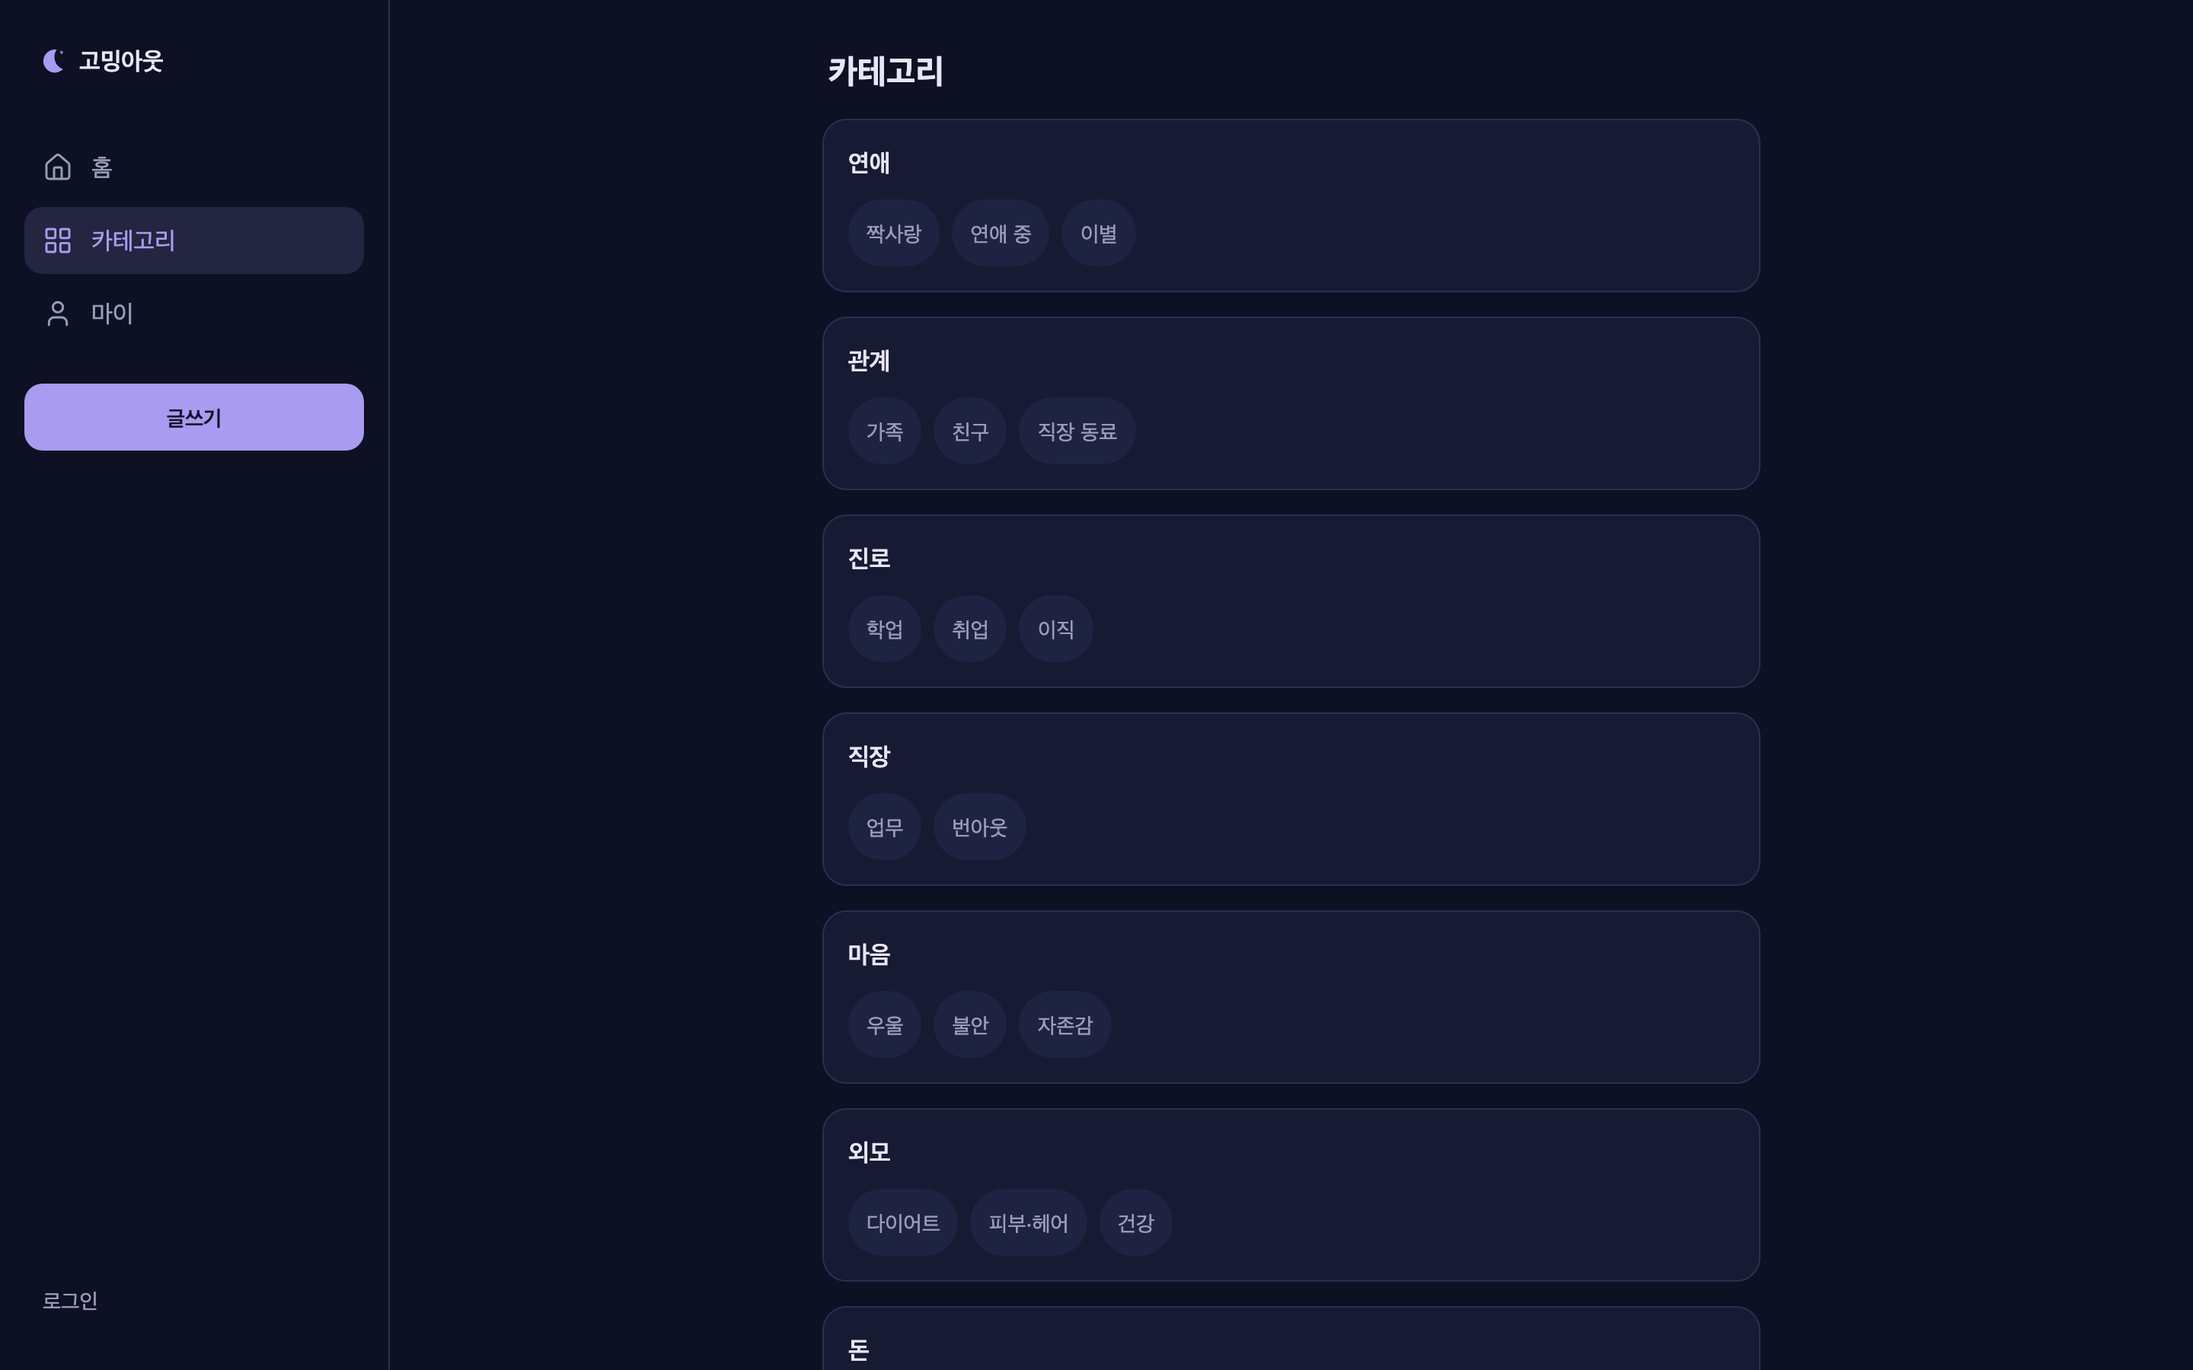
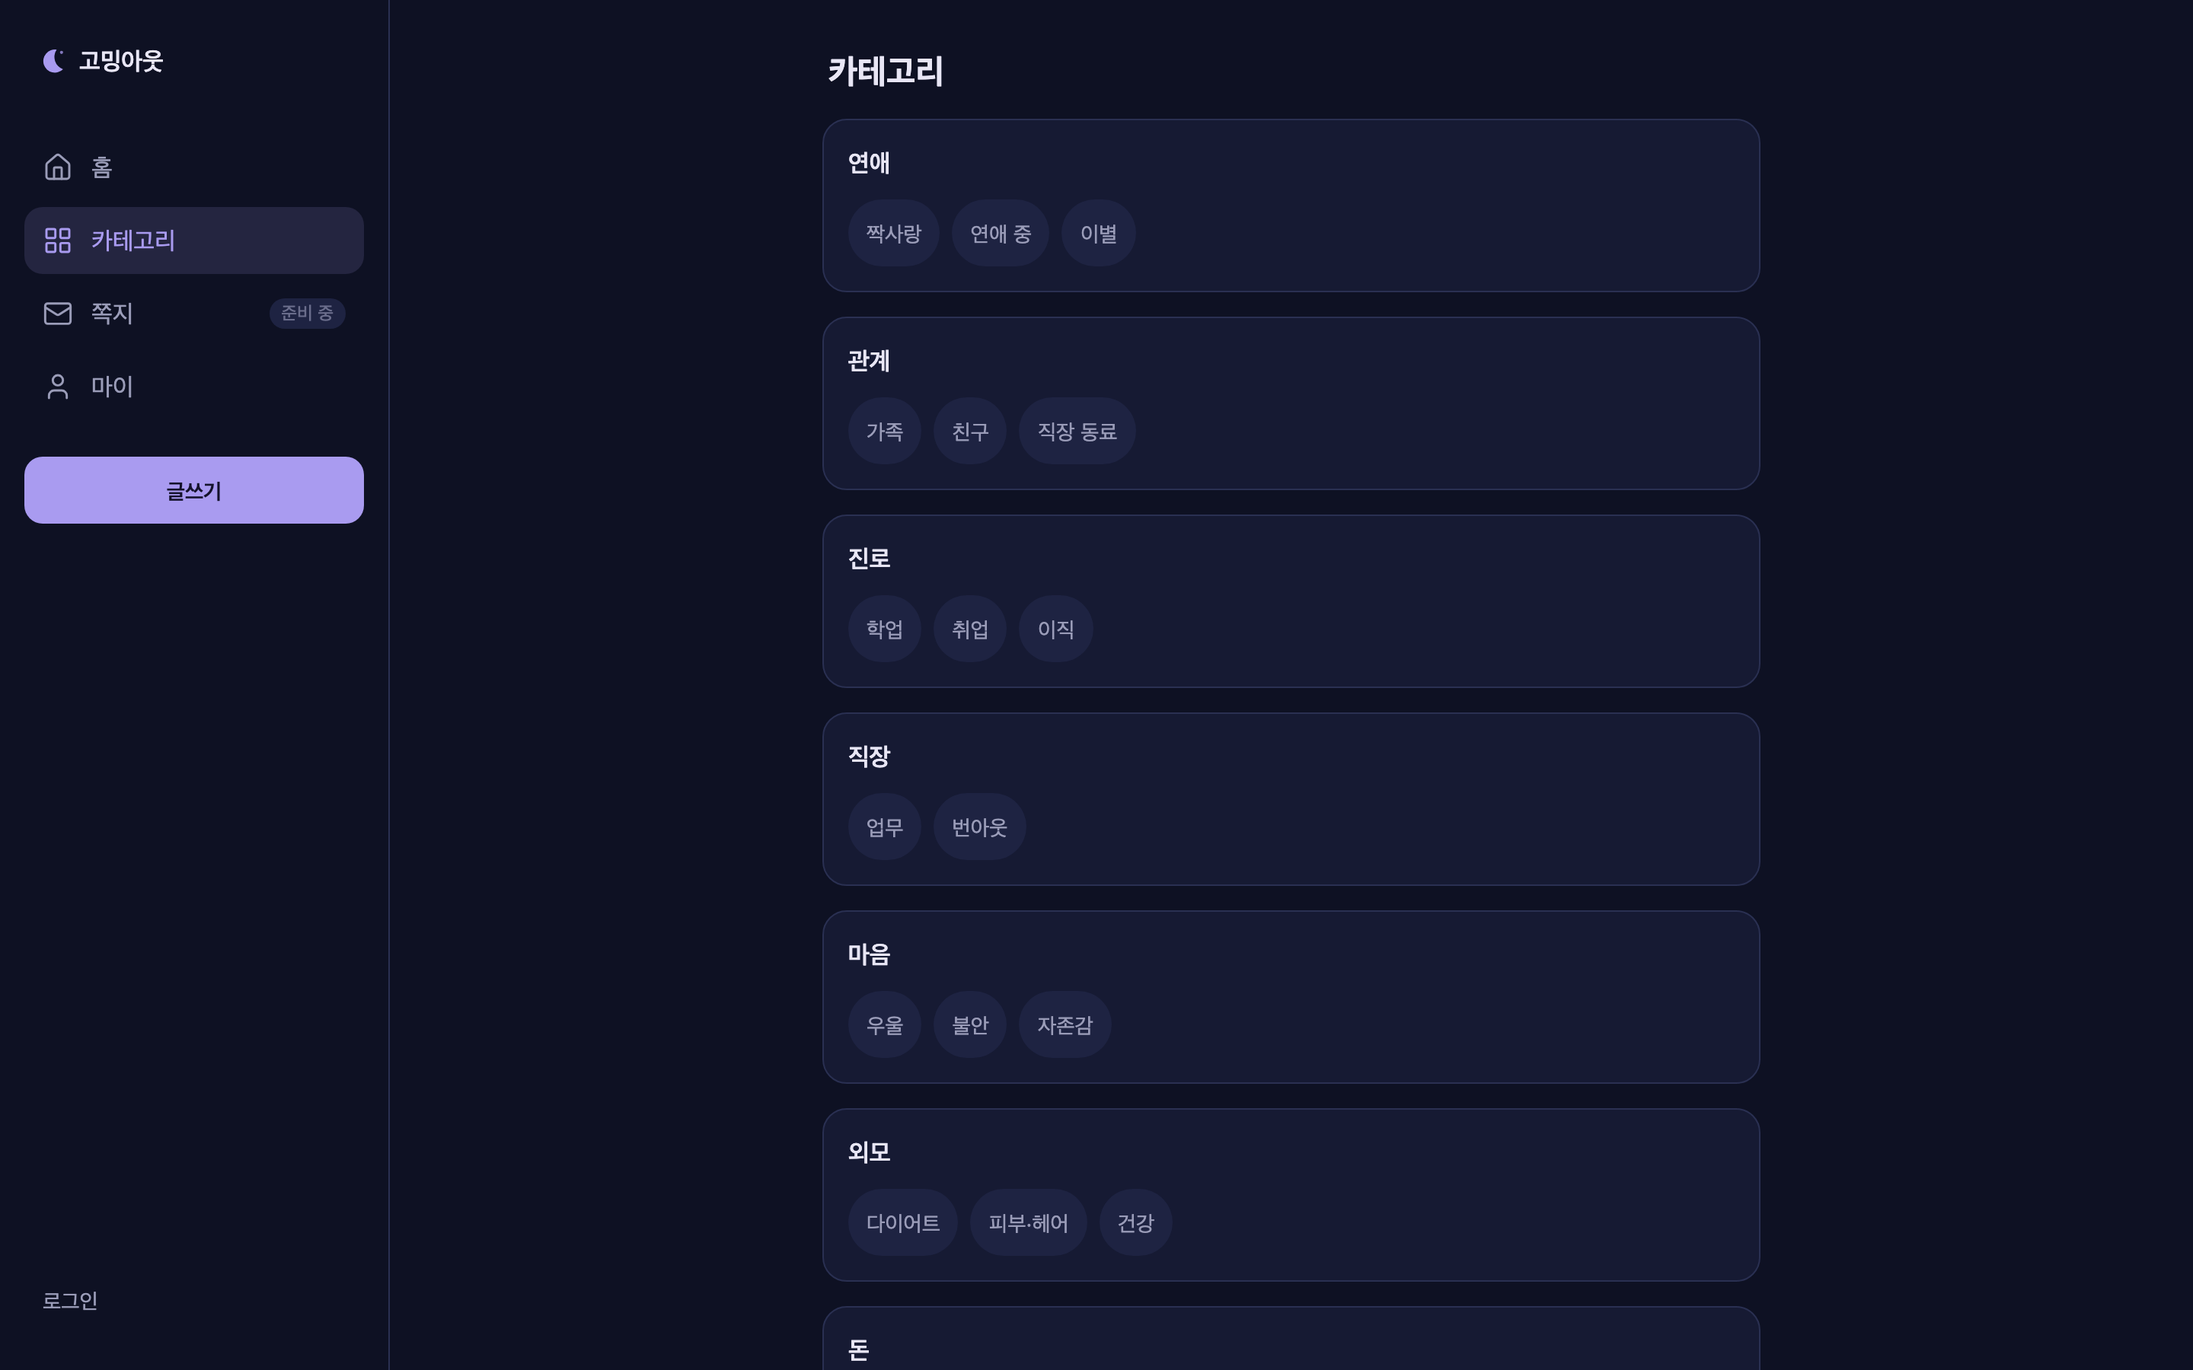
feat(web): 하단 탭에 쪽지(준비 중) 추가 — 5개로 균형
D24 — 탭 4개는 가운데 강조 버튼 기준으로 좌우가 어긋난다.
쪽지를 넣어 홈·카테고리 / 글쓰기 / 쪽지·마이 5개로 맞춘다.
기능 자체는 여전히 MVP 제외(D5)이며 자리만 미리 알린다.

- NAV_ITEMS에 comingSoon 플래그. 글쓰기가 가운데(index 2)
- 하단 탭: 아이콘 우상단에 --text-subtle 점 하나로만 표시.
  배지·숫자 같은 자극적인 표현은 쓰지 않는다(DESIGN.md 1장).
  스크린리더에는 "준비 중"을 읽어준다
- 사이드바: 여유가 있으므로 "준비 중" 칩을 글자로 표시
- /messages 안내 화면 — 누른 사람을 막다른 곳으로 보내지 않는다.
  익명 글에 쪽지를 받아도 신원이 드러나지 않게 만들 것임을 함께 안내(D5)
- 하단 탭 상단 여백 추가(pt-2.5). 아이콘이 경계선에 붙어 보였다

문서: DESIGN.md 6장(탭 4개→5개, 사이드바 메뉴), PRD 9장 화면 목록,
DECISIONS D24, M0 보고서

테스트 31개 통과. 하단 탭 구성 검증 4종 추가
(5개·강조 1개·href 중복 없음·준비 중 링크가 실제 화면을 가리킴).

Changed region(s): [[0.0, 0.28, 0.1875, 0.4044], [0.0, 0.2178, 0.0625, 0.2489], [0.125, 0.2178, 0.1562, 0.2489]]

diff --git a/apps/web/src/components/layout/app-shell.test.tsx b/apps/web/src/components/layout/app-shell.test.tsx
@@ -1,12 +1,13 @@
 import { render, screen } from '@testing-library/react';
 import { describe, expect, it, vi } from 'vitest';
 import { AppShell } from './app-shell';
+import { NAV_ITEMS } from './nav-items';
 
 // usePathname은 App Router 런타임에만 존재하므로 테스트에서 대체한다
 vi.mock('next/navigation', () => ({ usePathname: () => '/' }));
 
 describe('AppShell', () => {
-  it('하단 탭 4개와 사이드바 메뉴를 렌더한다', () => {
+  it('하단 탭과 사이드바 메뉴를 렌더한다', () => {
     render(
       <AppShell>
         <p>본문</p>
@@ -15,9 +16,35 @@ describe('AppShell', () => {
 
     expect(screen.getByText('본문')).toBeInTheDocument();
     // 하단 탭 + 사이드바에 각각 존재하므로 최소 1개 이상
-    for (const label of ['홈', '카테고리', '마이']) {
+    for (const label of ['홈', '카테고리', '쪽지', '마이']) {
       expect(screen.getAllByText(label).length).toBeGreaterThan(0);
     }
     expect(screen.getAllByLabelText('주요 메뉴').length).toBe(2);
+  });
+
+  it('준비 중인 메뉴에도 도착할 화면이 있다 — 막다른 링크를 두지 않는다', () => {
+    const comingSoon = NAV_ITEMS.filter((item) => item.comingSoon === true);
+
+    expect(comingSoon.length).toBeGreaterThan(0);
+    for (const item of comingSoon) {
+      expect(item.href).toMatch(/^\//);
+    }
+  });
+});
+
+describe('NAV_ITEMS', () => {
+  it('하단 탭은 5개이고 글쓰기가 가운데다 (DESIGN.md 6장)', () => {
+    expect(NAV_ITEMS).toHaveLength(5);
+    expect(NAV_ITEMS[2]?.emphasized).toBe(true);
+    expect(NAV_ITEMS[2]?.label).toBe('글쓰기');
+  });
+
+  it('강조 탭은 하나뿐이다 — 가운데 원형 버튼이 둘이면 레이아웃이 깨진다', () => {
+    expect(NAV_ITEMS.filter((item) => item.emphasized === true)).toHaveLength(1);
+  });
+
+  it('href가 중복되지 않는다', () => {
+    const hrefs = NAV_ITEMS.map((item) => item.href);
+    expect(new Set(hrefs).size).toBe(hrefs.length);
   });
 });

diff --git a/apps/web/src/app/messages/page.tsx b/apps/web/src/app/messages/page.tsx
@@ -1,0 +1,39 @@
+import { Mail } from 'lucide-react';
+import { Card } from '@/components/common/card';
+
+export const metadata = { title: '쪽지' };
+
+/**
+ * 쪽지 — 준비 중 (D5, D24).
+ *
+ * 쪽지는 MVP 범위 밖이다. 다만 하단 탭에 자리를 미리 두었으므로,
+ * 누른 사람이 막다른 곳에 도착하지 않도록 안내 화면을 둔다.
+ *
+ * 익명 커뮤니티에서 DM은 괴롭힘 위험이 있어 별도 설계가 필요하다(D5).
+ * 특히 익명 글 작성자에게 쪽지를 보낼 때 상대 신원이 드러나지 않아야 한다.
+ */
+export default function MessagesPage() {
+  return (
+    <div className="space-y-4">
+      <h1 className="px-1 text-title-lg text-text">쪽지</h1>
+
+      <Card className="px-4 py-12">
+        <div className="flex flex-col items-center text-center">
+          <span className="flex size-14 items-center justify-center rounded-pill bg-surface-2">
+            <Mail size={24} strokeWidth={1.75} aria-hidden className="text-text-subtle" />
+          </span>
+
+          <p className="mt-4 text-title-sm text-text">아직 준비하고 있어요</p>
+          <p className="mt-2 max-w-xs text-body-sm text-text-muted">
+            마음이 맞는 사람과 조용히 이야기 나눌 수 있는 쪽지를 준비하고 있어요. 조금만
+            기다려주세요.
+          </p>
+
+          <p className="mt-6 max-w-sm rounded-card bg-surface-2 px-4 py-3 text-caption text-text-subtle">
+            익명으로 쓴 글에 쪽지를 받더라도 누구인지 드러나지 않도록 만들고 있어요.
+          </p>
+        </div>
+      </Card>
+    </div>
+  );
+}

diff --git a/apps/web/src/components/layout/bottom-tabs.tsx b/apps/web/src/components/layout/bottom-tabs.tsx
@@ -17,7 +17,9 @@ export function BottomTabs() {
       aria-label="주요 메뉴"
       className="fixed inset-x-0 bottom-0 z-40 border-t bg-surface/95 safe-bottom backdrop-blur lg:hidden"
     >
-      <ul className="mx-auto flex max-w-reading items-stretch justify-around">
+      {/* 아이콘이 상단 경계선에 붙지 않도록 여백을 둔다. 가운데 글쓰기 버튼이 -mt-4로
+          올라오므로 그 공간도 함께 확보된다. */}
+      <ul className="mx-auto flex max-w-reading items-stretch justify-around px-2 pt-2.5 pb-1">
         {NAV_ITEMS.map((item) => {
           const active = pathname === item.href;
           const Icon = item.icon;
@@ -47,8 +49,18 @@ export function BottomTabs() {
                   active ? 'text-primary' : 'text-text-muted',
                 )}
               >
-                <Icon size={20} strokeWidth={1.75} aria-hidden />
+                <span className="relative">
+                  <Icon size={20} strokeWidth={1.75} aria-hidden />
+                  {/* 준비 중 표시는 아주 작은 점 하나로만. 자극적인 배지를 쓰지 않는다 (DESIGN.md 1장) */}
+                  {item.comingSoon === true && (
+                    <span
+                      aria-hidden
+                      className="absolute -top-0.5 -right-1 size-1.5 rounded-pill bg-text-subtle"
+                    />
+                  )}
+                </span>
                 {item.label}
+                {item.comingSoon === true && <span className="sr-only">준비 중</span>}
               </Link>
             </li>
           );

diff --git a/apps/web/src/components/layout/nav-items.ts b/apps/web/src/components/layout/nav-items.ts
@@ -1,4 +1,4 @@
-import { Home, LayoutGrid, PenLine, User, type LucideIcon } from 'lucide-react';
+import { Home, LayoutGrid, Mail, PenLine, User, type LucideIcon } from 'lucide-react';
 
 export type NavItem = {
   href: string;
@@ -6,12 +6,21 @@ export type NavItem = {
   icon: LucideIcon;
   /** 글쓰기는 하단 탭 가운데에서 강조된 원형 버튼으로 표시된다 (DESIGN.md 6장) */
   emphasized?: boolean;
+  /**
+   * 아직 만들지 않은 기능. 자리만 미리 보여준다 (D24).
+   * 누르면 "준비 중" 안내 화면으로 간다 — 막다른 곳으로 보내지 않는다.
+   */
+  comingSoon?: boolean;
 };
 
-/** 하단 탭 4개 / 사이드바 공용 (DESIGN.md 6장) */
+/**
+ * 하단 탭 5개 / 사이드바 공용 (DESIGN.md 6장).
+ * 글쓰기를 가운데(index 2)에 두어 좌우 2개씩 균형을 맞춘다.
+ */
 export const NAV_ITEMS: readonly NavItem[] = [
   { href: '/', label: '홈', icon: Home },
   { href: '/categories', label: '카테고리', icon: LayoutGrid },
   { href: '/write', label: '글쓰기', icon: PenLine, emphasized: true },
+  { href: '/messages', label: '쪽지', icon: Mail, comingSoon: true },
   { href: '/me', label: '마이', icon: User },
 ];

diff --git a/apps/web/src/components/layout/sidebar.tsx b/apps/web/src/components/layout/sidebar.tsx
@@ -20,7 +20,7 @@ export function Sidebar() {
       </Link>
 
       <nav aria-label="주요 메뉴" className="mt-8 flex flex-col gap-1">
-        {NAV_ITEMS.filter((item) => !item.emphasized).map((item) => {
+        {NAV_ITEMS.filter((item) => item.emphasized !== true).map((item) => {
           const active = pathname === item.href;
           const Icon = item.icon;
           return (
@@ -37,6 +37,12 @@ export function Sidebar() {
             >
               <Icon size={20} strokeWidth={1.75} aria-hidden />
               {item.label}
+              {/* 사이드바는 여유가 있으므로 "준비 중"을 글자로 알려준다 */}
+              {item.comingSoon === true && (
+                <span className="ml-auto rounded-pill bg-surface-2 px-2 py-0.5 text-caption text-text-subtle">
+                  준비 중
+                </span>
+              )}
             </Link>
           );
         })}

diff --git a/apps/web/scripts/screenshot.ts b/apps/web/scripts/screenshot.ts
@@ -29,6 +29,7 @@ const SCREENS = [
   { name: 'post-detail', path: '/posts/p1' },
   { name: 'post-detail-care', path: '/posts/p4' },
   { name: 'write', path: '/write' },
+  { name: 'messages', path: '/messages' },
   { name: 'my', path: '/me' },
   { name: 'login', path: '/login' },
 ] as const;

diff --git a/docs/progress/M0.md b/docs/progress/M0.md
@@ -20,7 +20,7 @@ shadcn 변수에 연결하고 Pretendard를 self-host했다.
   `GET /api/health`(DB ping 포함), `{error:{code,message}}` 핸들러, 전역 `Cache-Control: private, no-store`,
   `EmailSender`(mock·smtp) / `RateLimiter`(memory), 시드 진입점
 - **apps/web**: Next 16 rewrites, DESIGN 토큰 → Tailwind v4 `@theme` → shadcn 변수 연결, Pretendard self-host,
-  `AppShell`(모바일 하단 탭 / ≥1024px 사이드바), `PostCard`·`AuthorLabel`·`MbtiBadge`·`CountRow`·`CareBox`·`EmptyState`,
+  `AppShell`(모바일 하단 탭 5개 / ≥1024px 사이드바), 쪽지 준비 중 화면, `PostCard`·`AuthorLabel`·`MbtiBadge`·`CountRow`·`CareBox`·`EmptyState`,
   TanStack Query provider, api-client
 - **스크린샷**: Playwright 2뷰포트 + **가로 스크롤 자동 단정** + 콘솔 에러 수집
 
@@ -51,13 +51,13 @@ shadcn 변수에 연결하고 Pretendard를 self-host했다.
 ## 테스트
 
 - 실행 명령: `pnpm verify` (format:check → lint → typecheck → test)
-- 결과: **27개 전부 통과**, lint 0 error, 타입 에러 0
+- 결과: **31개 전부 통과**, lint 0 error, 타입 에러 0
 
 | 패키지 | 개수 | 주요 항목 |
 |---|---|---|
 | shared | 14 | MBTI 16종·중복 없음, 카테고리 slug 전역 유일, 위기 키워드 오탐/감지/공백 우회, 작성자 라벨 |
 | api | 4 | health 응답 형식·UTC, **`Cache-Control: private, no-store`**, `x-powered-by` 미노출, 404 에러 형식 |
-| web | 9 | AppShell 렌더, **AuthorLabel 익명성 7종**(D22 케이스 포함) |
+| web | 13 | AppShell·하단 탭 구성(5개·강조 1개·href 중복 없음·준비 중 링크 유효), **AuthorLabel 익명성 7종**(D22 케이스 포함) |
 
 익명성 검사(절대규칙 7): 익명 작성자에 라벨·MBTI 외 노출 없음, MBTI 끈 경우 라벨만,
 `mbtiPublic=false` 닉네임에 배지 없음, 탈퇴 사용자 닉네임 미노출,
@@ -86,9 +86,10 @@ curl -D - localhost:3000/api/health | grep cache-control → private, no-store
 | 게시글 상세 (위기 안내 박스) | `screenshots/M0/post-detail-care-mobile.png` | `screenshots/M0/post-detail-care-desktop.png` |
 | 글쓰기 | `screenshots/M0/write-mobile.png` | `screenshots/M0/write-desktop.png` |
 | 마이페이지 | `screenshots/M0/my-mobile.png` | `screenshots/M0/my-desktop.png` |
+| 쪽지 (준비 중) | `screenshots/M0/messages-mobile.png` | `screenshots/M0/messages-desktop.png` |
 | 로그인 | `screenshots/M0/login-mobile.png` | `screenshots/M0/login-desktop.png` |
 
-확인한 것: 모바일 하단 탭 4개(글쓰기 강조 원형) / 데스크톱 사이드바 전환, 본문 컬럼 680px,
+확인한 것: 모바일 하단 탭 5개(글쓰기 가운데 강조 원형, 쪽지 준비 중 점 표시) / 데스크톱 사이드바 전환, 본문 컬럼 680px,
 익명 배지·MBTI 칩·글쓴이 배지, 위기 안내 박스가 경고색 없이 `--care` 계열로 표시, 익명 기본 ON 토글.
 
 ## 알려진 이슈 / 다음 마일스톤으로 넘기는 것
@@ -107,6 +108,8 @@ curl -D - localhost:3000/api/health | grep cache-control → private, no-store
   닉네임 글 + 익명 댓글이면 작성자가 드러나지만 의도된 동작이며, 이 경우에도 `nickname`·`id`는
   응답에 담기지 않는다. 라벨 문자열은 `AUTHOR_LABEL` 상수로 단일화해 serializer(M3)와 화면이
   어긋나지 않게 했다. PRD 4장·API.md·ARCHITECTURE.md 반영.
+- **D24 하단 탭에 `쪽지` 준비 중 추가** — 탭 4개는 가운데 강조 버튼 기준 좌우가 어긋나 5개로 균형을 맞췄다.
+  기능은 여전히 MVP 제외(D5)이며 `/messages` 안내 화면만 둔다. DESIGN.md 6장·PRD 9장 반영.
 - **D23 `CommentLike` 모델 추가** — `SCHEMA.md`에 `CommentLike`(복합 PK로 중복 공감 차단),
   `User.commentLikes`·`Comment.likes` 관계를 넣고 `API.md`에 `POST/DELETE /comments/:id/like`를 정의했다.
   상세 화면에도 댓글 공감 버튼을 붙였다.

diff --git a/docs/DECISIONS.md b/docs/DECISIONS.md
@@ -26,6 +26,7 @@
 | D21 | M0 UI는 실제 API 대신 `PublicPost`·`PublicComment` 타입으로 타이핑한 mock 픽스처로 구성한다 | 스키마(M1~M3)를 앞당기지 않고 화면 구성을 먼저 확인하기 위해. 타입이 같으므로 실제 API로 바꿀 때 화면 코드를 고칠 필요가 없다 |
 | D22 | **`글쓴이` 배지는 글의 익명 여부와 무관하게 항상 표시한다.** 닉네임 글 + 익명 댓글이어도 `글쓴이`로 표시 | 대화 맥락상 글쓴이의 답글임을 아는 것이 더 중요하다는 판단. 단, 닉네임 글에 익명 댓글을 달면 그 댓글의 작성자가 글쓴이임이 드러난다는 점을 글쓰기·댓글 화면에서 안내한다 |
 | D23 | 댓글 공감을 위해 `CommentLike` 모델을 스키마에 추가하고 `POST/DELETE /comments/:id/like` API를 정의한다 | D18에서 댓글 공감이 확정됐으나 `Comment.likeCount`를 유지할 수단이 없었다 |
+| D24 | 하단 탭에 `쪽지`를 **준비 중**으로 미리 노출한다(탭 5개, 글쓰기가 가운데). 기능 자체는 여전히 MVP 제외(D5) | 탭 4개는 가운데 강조 버튼 기준으로 좌우가 어긋난다. 5개로 균형을 맞추면서 앞으로 들어올 기능의 자리를 미리 알린다. 누른 사람이 막다른 곳에 가지 않도록 안내 화면(`/messages`)을 둔다 |
 
 ## 기술 세부 (제안 기본값, 이의 없으면 확정)
 | ID | 내용 |

diff --git a/docs/PRD.md b/docs/PRD.md
@@ -96,6 +96,7 @@
 11. 설정 (비밀번호 변경, 로그아웃, 탈퇴)
 12. 어드민 신고 관리
 13. 이용약관 / 개인정보처리방침
+14. 쪽지 (준비 중 안내 화면. 기능 자체는 MVP 제외 — D5, D24)
 
 ## 10. 비기능 요구사항
 - 모바일 우선 반응형
